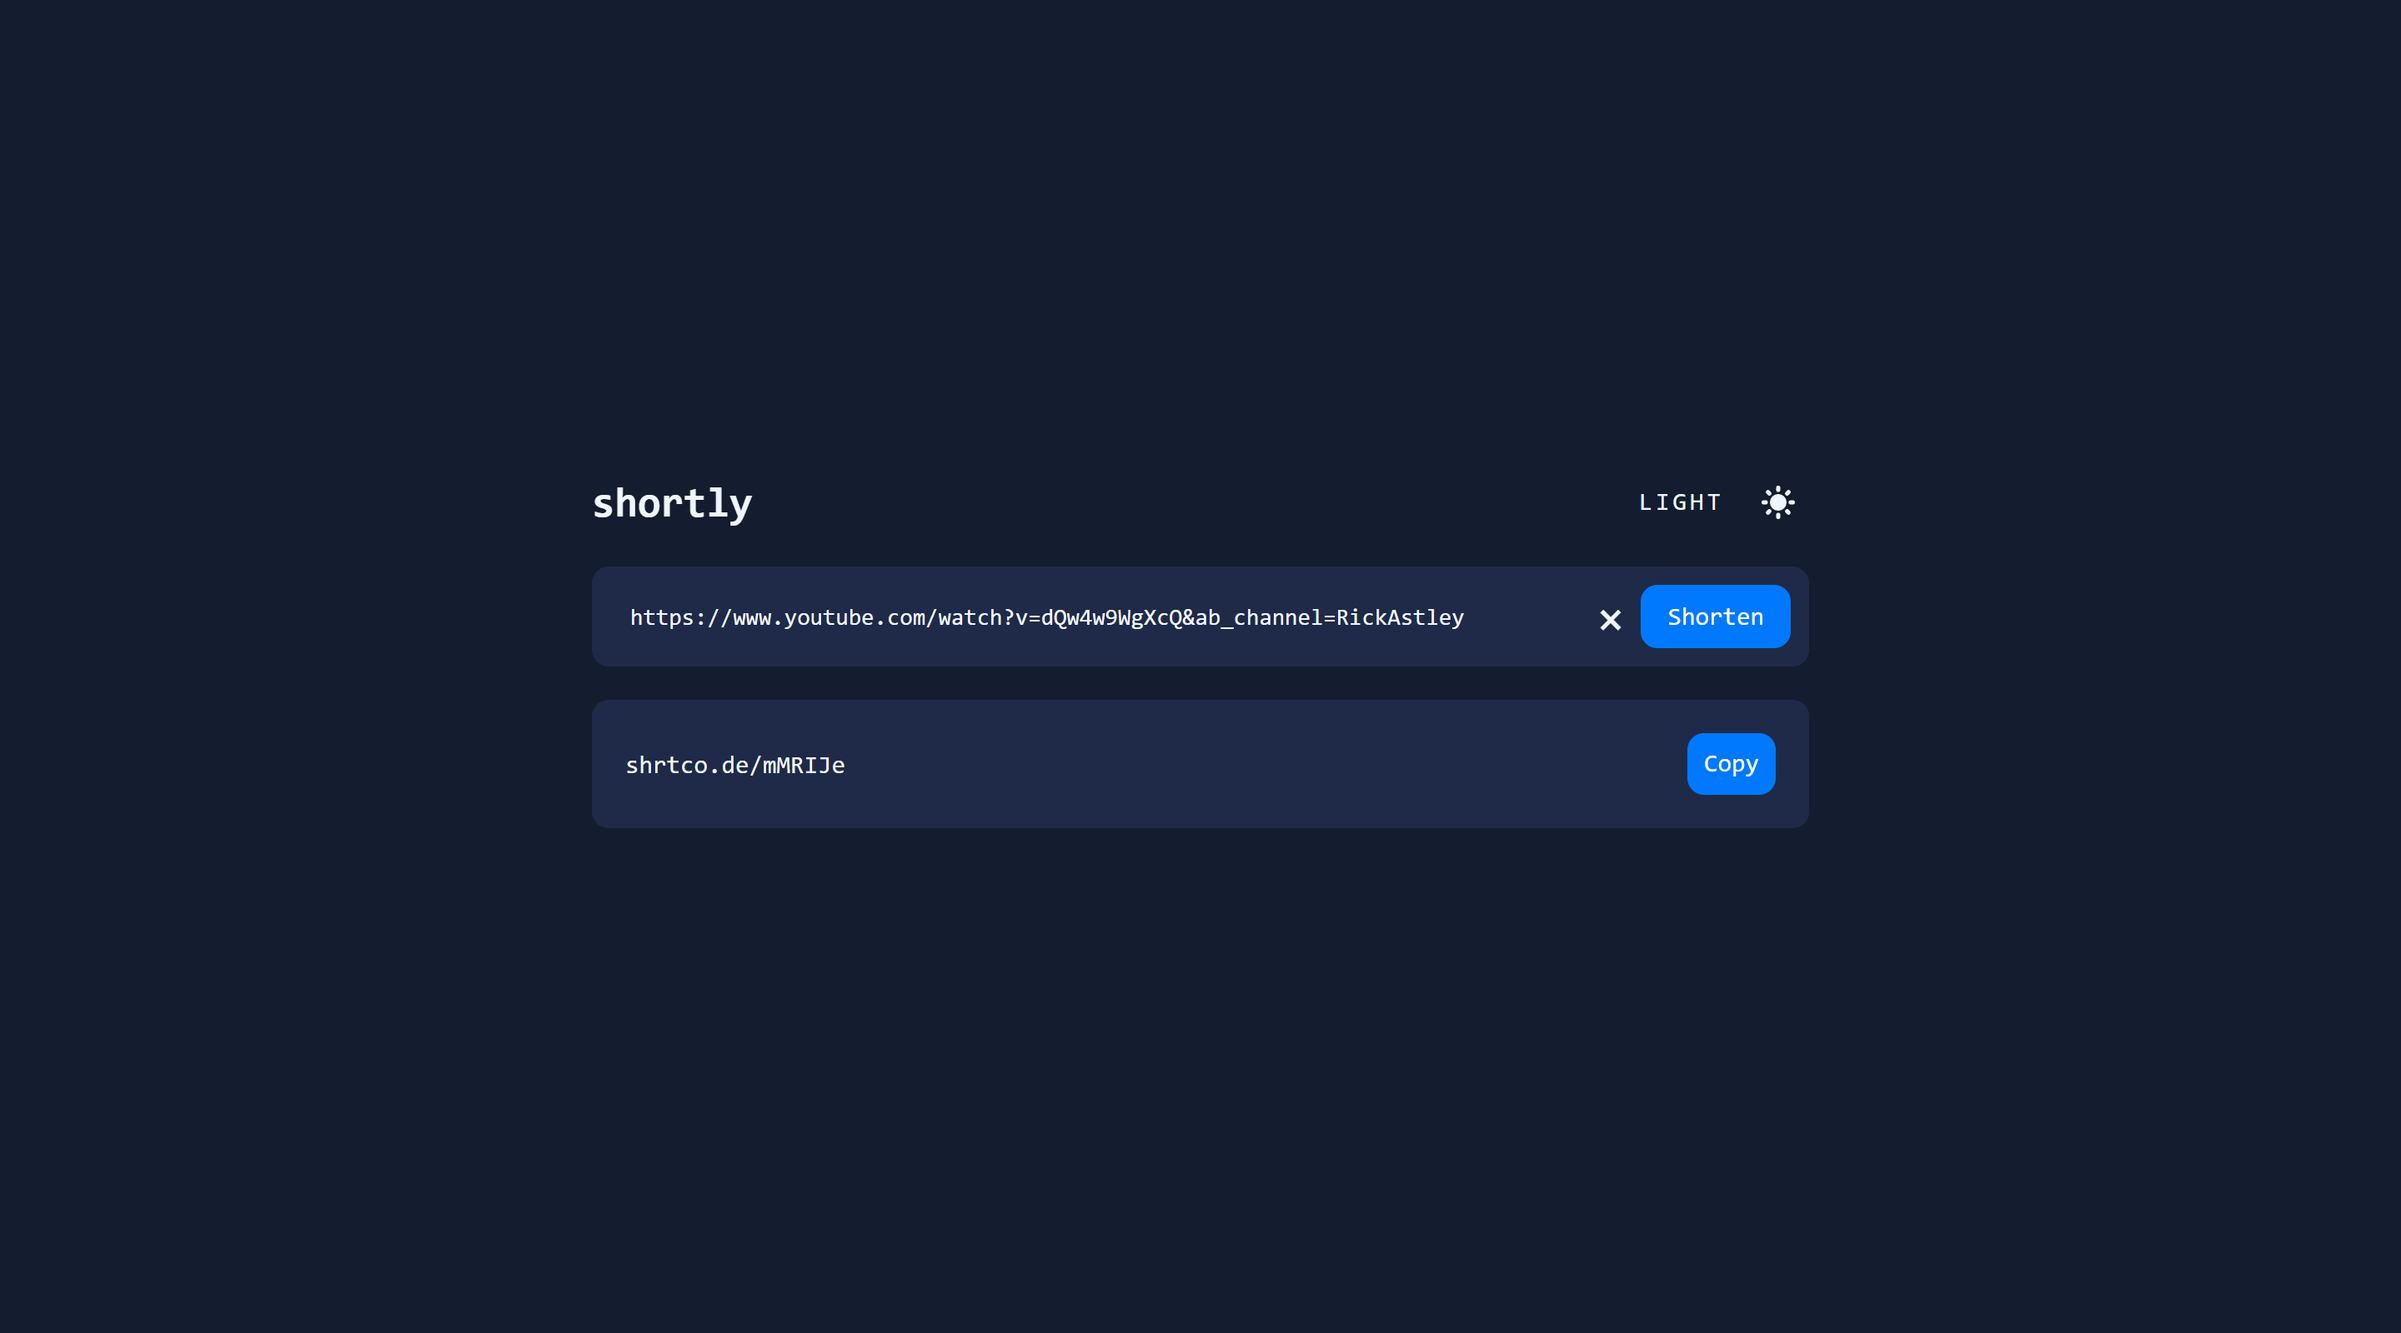
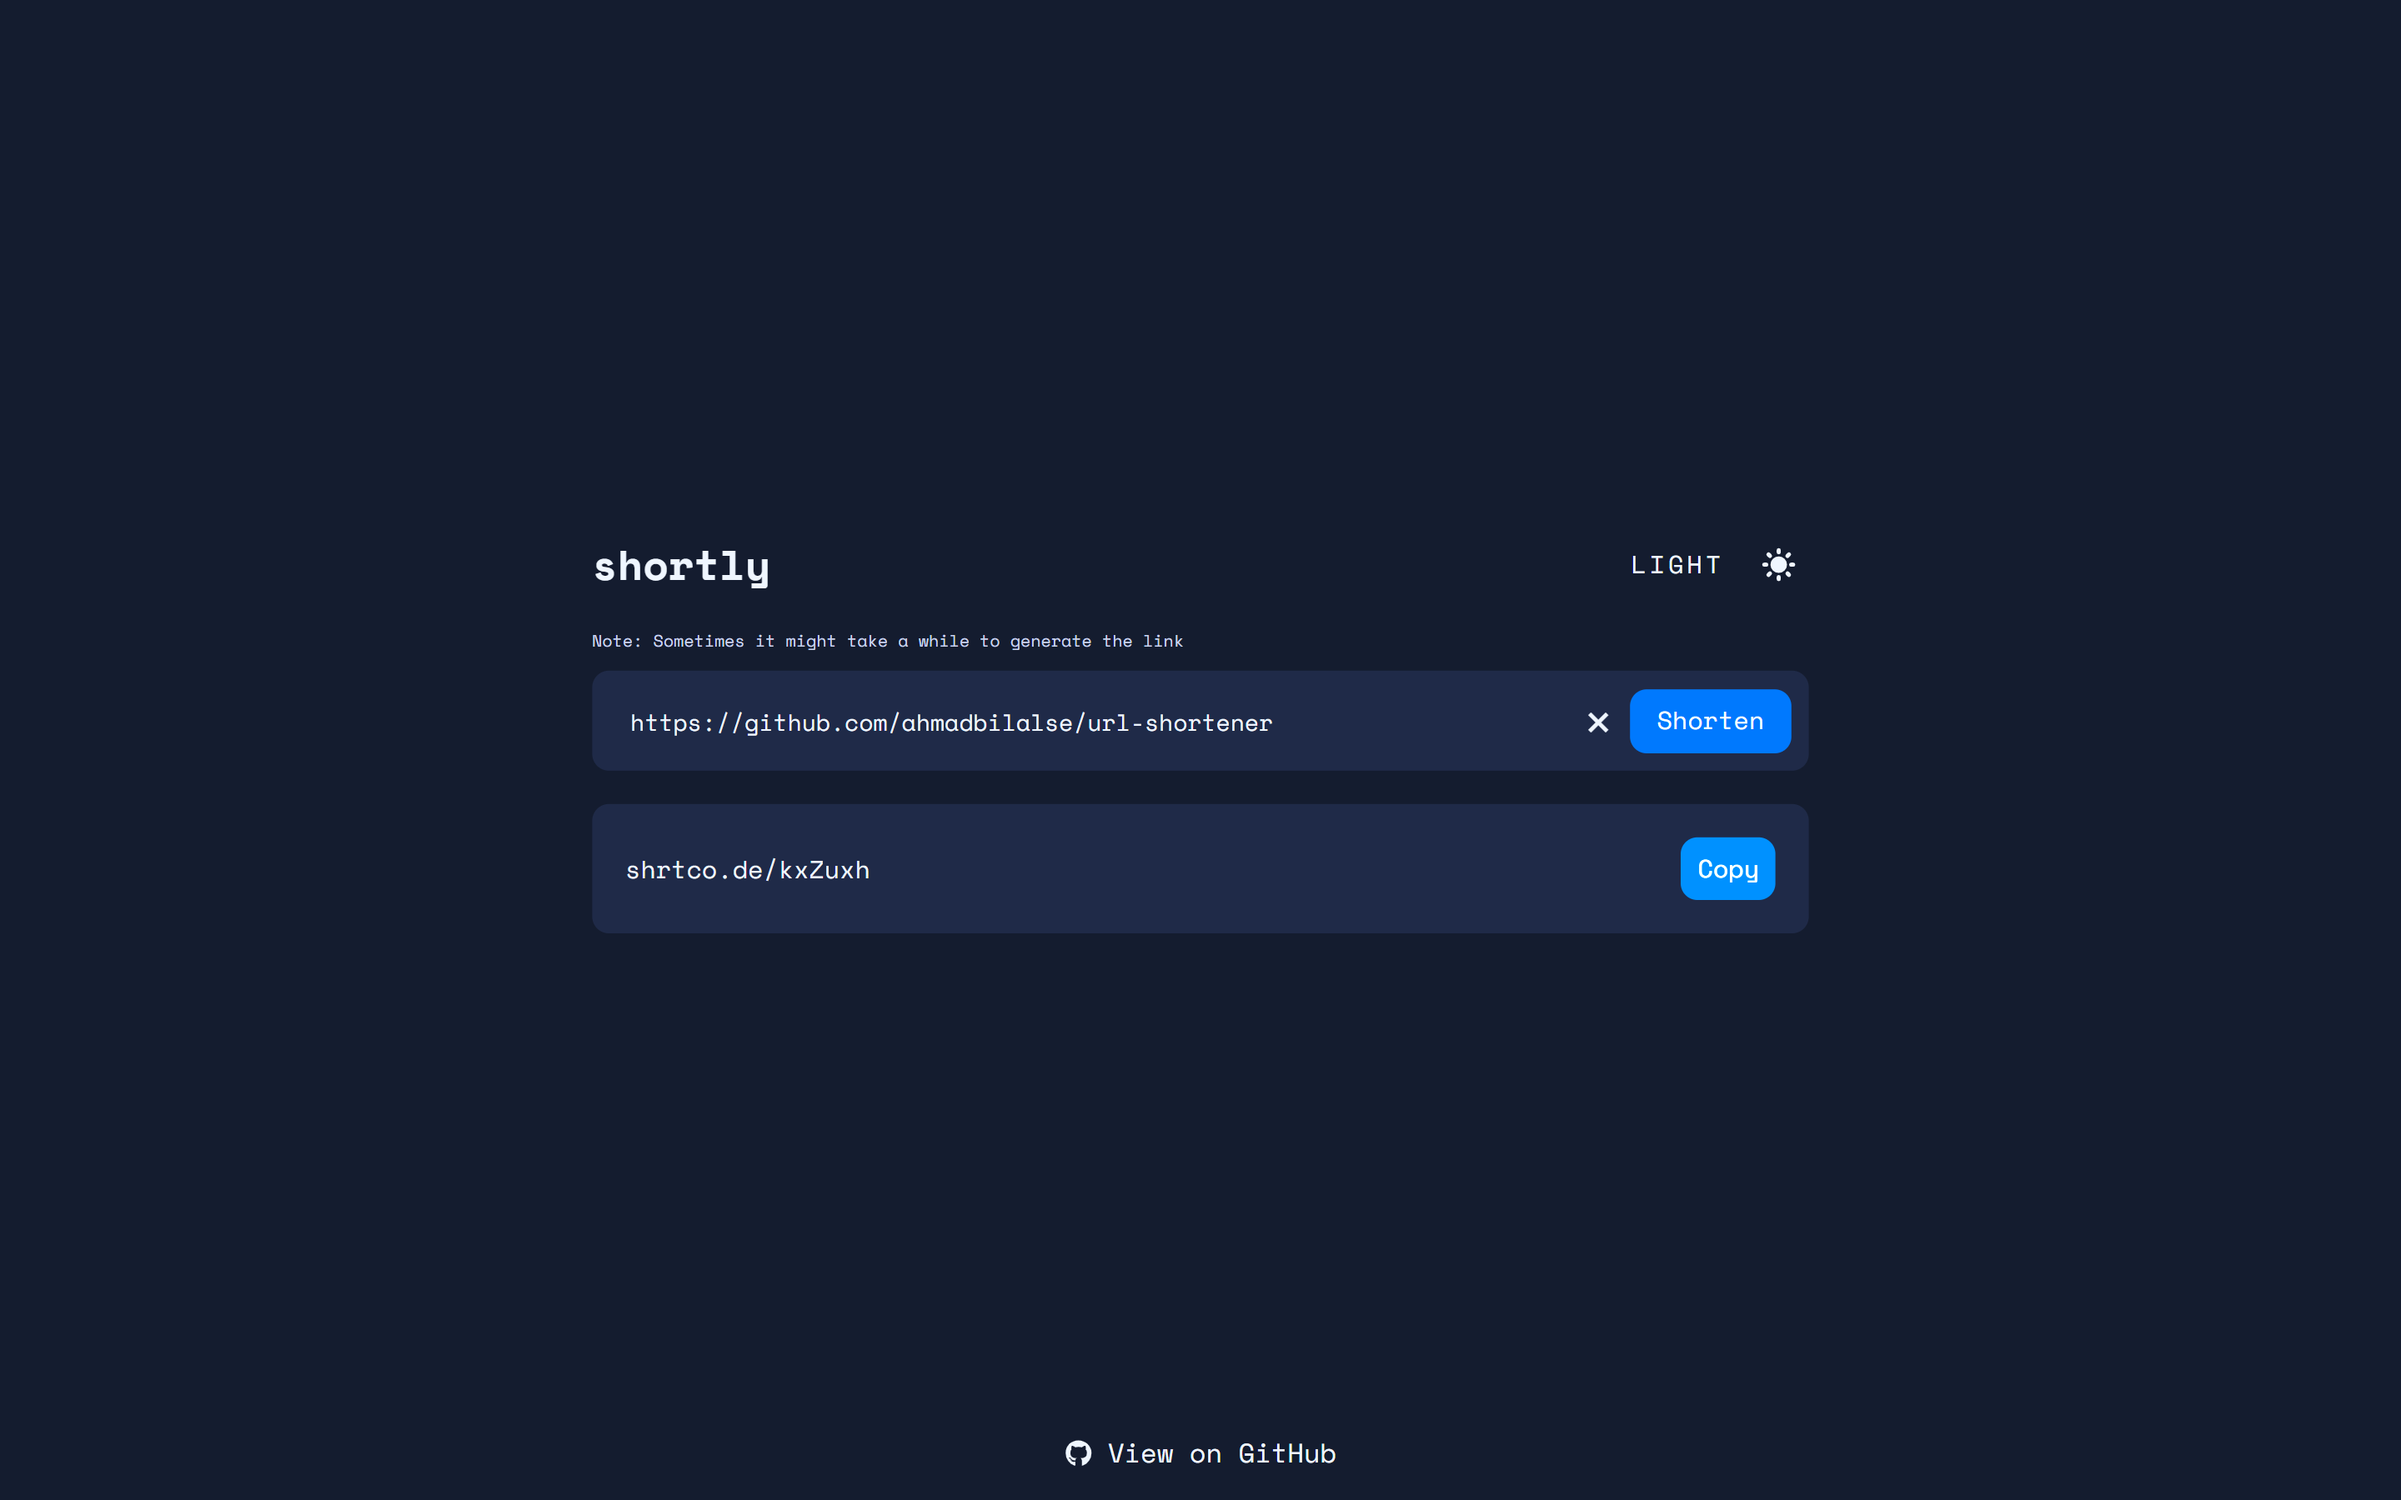
add: GitHub link & update screenshot

Changed region(s): [[0.25, 0.3438, 0.75, 0.5938]]

diff --git a/components/Home/Home.tsx b/components/Home/Home.tsx
@@ -4,6 +4,7 @@ import styles from "./Home.module.scss";
 import ThemeSwitcher from "../ThemeSwitcher/ThemeSwitcher";
 import SearchForm from "../SearchForm/SearchForm";
 import ResultItem from "../ResultItem/ResultItem";
+import GithubLink from "../GithubLink/GithubLink";
 
 export default function Home() {
   return (
@@ -23,6 +24,9 @@ export default function Home() {
         </div>
         <ResultItem />
       </main>
+      <div className={styles.githubLink}>
+        <GithubLink />
+      </div>
     </div>
   );
 }

diff --git a/components/GithubLink/GithubLink.tsx b/components/GithubLink/GithubLink.tsx
@@ -1,0 +1,18 @@
+import React from "react";
+import { FaGithub } from "react-icons/fa";
+import styles from './GithubLink.module.scss'
+
+export default function GithubLink() {
+  return (
+    <div className={styles.container}>
+      <a
+        href="https://github.com/ahmadbilalse/url-shortener"
+        target="_blank"
+        rel="noreferrer"
+      >
+        <FaGithub className={styles.icon} />
+        View on GitHub
+      </a>
+    </div>
+  );
+}

diff --git a/components/GithubLink/GithubLink.module.scss b/components/GithubLink/GithubLink.module.scss
@@ -1,0 +1,17 @@
+@use '../../styles/utils';
+
+.container {
+  font-size: 1.6rem;
+  padding: 1rem;
+  border-radius: utils.$border-radius;
+  text-align: center;
+}
+
+.container > * {
+  display: flex;
+  align-items: center;
+}
+
+.icon {
+  margin-right: 1rem;
+}

diff --git a/components/Home/Home.module.scss b/components/Home/Home.module.scss
@@ -43,3 +43,10 @@
 .searchForm {
   margin-top: 2rem;
 }
+
+.githubLink {
+  position: absolute;
+  bottom: 1rem;
+  left: 50%;
+  transform: translateX(-50%);
+}
